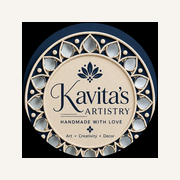
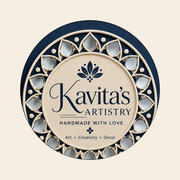
Faster navigation and separate installable shop and admin apps
- Instant loading screens for shop, product and admin pages (enables prefetch)
- Cache storefront reads; every database write clears the cache immediately
- One database round trip on start-up instead of four
- Admin is its own installable app (own manifest, scope /admin, icon)
- Service worker: full-screen install everywhere, cached build files/photos
- New app icons without the black square; iPhone full-screen meta
- /api/health speed diagnostics reported by the live check

Claude-Session: https://claude.ai/code/session_01DYmpLTJUf9V3yLbi4Rqe1d

diff --git a/public/sw.js b/public/sw.js
@@ -1,0 +1,66 @@
+/*
+ * Service worker for the shop and admin apps.
+ * - Makes both installable as full-screen apps (a fetch handler is required by some browsers).
+ * - Caches build files and photos so repeat visits and page switches load instantly.
+ * Pages and /api are always fetched fresh (orders, stock and admin data must never be stale).
+ */
+const VERSION = "v1";
+const STATIC = `static-${VERSION}`;
+const MEDIA = `media-${VERSION}`;
+
+self.addEventListener("install", () => self.skipWaiting());
+
+self.addEventListener("activate", (event) => {
+  event.waitUntil(
+    (async () => {
+      const keep = new Set([STATIC, MEDIA]);
+      for (const key of await caches.keys()) if (!keep.has(key)) await caches.delete(key);
+      await self.clients.claim();
+    })(),
+  );
+});
+
+const OFFLINE_HTML = `<!doctype html><meta charset="utf-8"><meta name="viewport" content="width=device-width,initial-scale=1">
+<title>Offline</title><body style="margin:0;display:grid;place-items:center;min-height:100vh;background:#f6ede3;color:#3b2a20;font:16px system-ui;text-align:center;padding:24px">
+<div><p style="font-size:22px;margin:0 0 8px">You're offline</p><p style="margin:0 0 20px;color:#6b5546">Check your internet connection and try again.</p>
+<button onclick="location.reload()" style="border:0;border-radius:999px;padding:12px 24px;background:#3b2a20;color:#fff;font:inherit">Try again</button></div>`;
+
+async function cacheFirst(request) {
+  const cache = await caches.open(STATIC);
+  const hit = await cache.match(request);
+  if (hit) return hit;
+  const res = await fetch(request);
+  if (res.ok) cache.put(request, res.clone());
+  return res;
+}
+
+async function staleWhileRevalidate(request) {
+  const cache = await caches.open(MEDIA);
+  const hit = await cache.match(request);
+  const fresh = fetch(request)
+    .then((res) => {
+      if (res.ok) cache.put(request, res.clone());
+      return res;
+    })
+    .catch(() => hit);
+  return hit || fresh;
+}
+
+self.addEventListener("fetch", (event) => {
+  const { request } = event;
+  if (request.method !== "GET") return;
+  const url = new URL(request.url);
+  if (url.origin !== self.location.origin) return;
+
+  if (request.mode === "navigate") {
+    event.respondWith(fetch(request).catch(() => new Response(OFFLINE_HTML, { headers: { "Content-Type": "text/html; charset=utf-8" } })));
+    return;
+  }
+  if (url.pathname.startsWith("/_next/static/")) {
+    event.respondWith(cacheFirst(request));
+    return;
+  }
+  if (/^\/(home|stock|demo|brand)\//.test(url.pathname) || /^\/api\/img\//.test(url.pathname) || /\.(png|webp|jpg|jpeg|svg|woff2)$/.test(url.pathname)) {
+    event.respondWith(staleWhileRevalidate(request));
+  }
+});

diff --git a/src/lib/db.ts b/src/lib/db.ts
@@ -1,4 +1,5 @@
 import { createClient, type Client, type InValue } from "@libsql/client";
+import { revalidateTag } from "next/cache";
 import { SEED_CATEGORIES, SEED_CATEGORIES_V2, seedCategoryStatements, seedDemoProducts, seedDemoProductsV2 } from "./seed";
 
 /**
@@ -160,8 +161,18 @@ const SCHEMA = [
   )`,
 ];
 
+/** Bump when a new one-time migration is added below; the fast path checks this single flag. */
+const DB_VERSION = "3";
+
 async function init() {
   const c = getClient();
+  // Fast path (every warm database): one round trip instead of schema + three flag checks.
+  try {
+    const v = await c.execute({ sql: "SELECT value FROM Setting WHERE key = 'dbVersion'", args: [] });
+    if (v.rows[0]?.value === JSON.stringify(DB_VERSION)) return;
+  } catch {
+    // No Setting table yet — fresh database.
+  }
   await c.batch(SCHEMA.map((sql) => ({ sql, args: [] })), "write");
   const seeded = await c.execute({ sql: "SELECT value FROM Setting WHERE key = 'seeded'", args: [] });
   if (seeded.rows.length === 0) {
@@ -199,6 +210,7 @@ async function init() {
       "write",
     );
   }
+  await c.execute({ sql: `INSERT OR REPLACE INTO Setting (key, value) VALUES ('dbVersion', ?)`, args: [JSON.stringify(DB_VERSION)] });
 }
 
 export async function ensureDb() {
@@ -224,14 +236,31 @@ export async function queryOne<T = Row>(sql: string, args: InValue[] = []): Prom
   return rows[0] ?? null;
 }
 
+// View / WhatsApp-click counters change on every visit and are not shown in the shop.
+const COUNTER_WRITE = /^UPDATE Product SET (views|whatsappClicks) = /;
+
+/** Any data change clears the cached storefront reads (lib/cached.ts) so it shows immediately. */
+function storeChanged(sqls: string[]) {
+  if (sqls.every((s) => COUNTER_WRITE.test(s))) return;
+  try {
+    revalidateTag("store", { expire: 0 });
+  } catch {
+    // Outside a route handler / server action (e.g. during render) there is nothing to clear.
+  }
+}
+
 export async function run(sql: string, args: InValue[] = []) {
   await ensureDb();
-  return getClient().execute({ sql, args });
+  const res = await getClient().execute({ sql, args });
+  storeChanged([sql]);
+  return res;
 }
 
 export async function batch(stmts: { sql: string; args: InValue[] }[]) {
   await ensureDb();
-  return getClient().batch(stmts, "write");
+  const res = await getClient().batch(stmts, "write");
+  storeChanged(stmts.map((s) => s.sql));
+  return res;
 }
 
 export function newId(prefix = "") {

diff --git a/src/app/layout.tsx b/src/app/layout.tsx
@@ -1,5 +1,6 @@
 import type { Metadata, Viewport } from "next";
 import { Dancing_Script, Fraunces, Manrope, Tiro_Devanagari_Hindi } from "next/font/google";
+import { ServiceWorker } from "@/components/ServiceWorker";
 import "./globals.css";
 
 // Display serif: variable with optical sizing (no weight array → full variable range)
@@ -22,6 +23,8 @@ export const metadata: Metadata = {
   openGraph: { type: "website", siteName: "Kavita’s Artistry", images: ["/brand/brand-board.jpg"] },
   manifest: "/manifest.webmanifest",
   icons: { apple: "/apple-touch-icon.png" },
+  // iPhone: open the home-screen app full screen, without Safari's address bar
+  appleWebApp: { capable: true, title: "Kavita's", statusBarStyle: "default" },
 };
 
 export const viewport: Viewport = { themeColor: "#f6ede3", width: "device-width", initialScale: 1, viewportFit: "cover" };
@@ -29,7 +32,10 @@ export const viewport: Viewport = { themeColor: "#f6ede3", width: "device-width"
 export default function RootLayout({ children }: { children: React.ReactNode }) {
   return (
     <html lang="en-IN" className={`${fraunces.variable} ${manrope.variable} ${tiro.variable} ${dancing.variable}`}>
-      <body className="min-h-screen">{children}</body>
+      <body className="min-h-screen">
+        {children}
+        <ServiceWorker />
+      </body>
     </html>
   );
 }

diff --git a/src/app/manifest.ts b/src/app/manifest.ts
@@ -1,17 +1,27 @@
 import type { MetadataRoute } from "next";
 
+/**
+ * The shop app. The admin is a separate installable app with its own manifest
+ * (public/admin.webmanifest, linked from app/admin/layout.tsx).
+ */
 export default function manifest(): MetadataRoute.Manifest {
   return {
+    id: "/",
     name: "Kavita's Artistry",
     short_name: "Kavita's",
     description: "Handmade art & craft — order on WhatsApp",
     start_url: "/",
+    scope: "/",
     display: "standalone",
-    background_color: "#f7f4ef",
-    theme_color: "#f7f4ef",
+    display_override: ["standalone"],
+    orientation: "portrait",
+    background_color: "#f6ede3",
+    theme_color: "#f6ede3",
+    categories: ["shopping", "lifestyle"],
     icons: [
-      { src: "/icon-192.png", sizes: "192x192", type: "image/png" },
-      { src: "/icon-512.png", sizes: "512x512", type: "image/png" },
+      { src: "/icon-192.png", sizes: "192x192", type: "image/png", purpose: "any" },
+      { src: "/icon-512.png", sizes: "512x512", type: "image/png", purpose: "any" },
+      { src: "/icon-512.png", sizes: "512x512", type: "image/png", purpose: "maskable" },
     ],
   };
 }

diff --git a/src/lib/cached.ts b/src/lib/cached.ts
@@ -1,0 +1,18 @@
+import { unstable_cache } from "next/cache";
+import * as repo from "./repo";
+import { getSettings as readSettings } from "./settings";
+
+/**
+ * Cached storefront reads. The shop pages read settings, categories, products and reviews on every
+ * visit; caching them means most pages need no database round trip at all.
+ * Every database write clears the cache straight away (see `run`/`batch` in db.ts), so admin edits
+ * and new orders still show on the very next page load. The hourly expiry is only a safety net.
+ */
+export const STORE_TAG = "store";
+const opts = { tags: [STORE_TAG], revalidate: 3600 };
+
+export const getSettings = unstable_cache(readSettings, ["settings"], opts);
+export const categoryTree = unstable_cache(repo.categoryTree, ["categoryTree"], opts);
+export const listProducts = unstable_cache(repo.listProducts, ["listProducts"], opts);
+export const listReviews = unstable_cache(repo.listReviews, ["listReviews"], opts);
+export const getProductBySlug = unstable_cache(repo.getProductBySlug, ["getProductBySlug"], opts);

diff --git a/src/app/api/health/route.ts b/src/app/api/health/route.ts
@@ -1,0 +1,26 @@
+import { NextResponse } from "next/server";
+import { ensureDb, query } from "@/lib/db";
+
+export const dynamic = "force-dynamic";
+
+/**
+ * Speed diagnostics for the live check: where the server runs, which region the database is in
+ * (only the region part of its host name) and how long database round trips take.
+ */
+export async function GET() {
+  const t0 = performance.now();
+  await ensureDb();
+  const init = performance.now() - t0;
+  const trips: number[] = [];
+  for (let i = 0; i < 3; i++) {
+    const t = performance.now();
+    await query("SELECT 1");
+    trips.push(Math.round(performance.now() - t));
+  }
+  const url = process.env.DATABASE_URL || process.env.TURSO_DATABASE_URL || "";
+  const dbRegion = url.match(/\.((?:aws|gcp|fly)-[a-z0-9-]+)\.turso\.io/)?.[1] ?? (url ? "unknown" : "none");
+  return NextResponse.json(
+    { serverRegion: process.env.VERCEL_REGION ?? "local", dbRegion, initMs: Math.round(init), roundTripMs: trips },
+    { headers: { "Cache-Control": "no-store" } },
+  );
+}

diff --git a/src/app/(store)/loading.tsx b/src/app/(store)/loading.tsx
@@ -1,0 +1,23 @@
+/**
+ * Shown the instant a shop link is tapped, while the next page renders on the server.
+ * Shared by every shop page that has no loading screen of its own.
+ */
+export default function StoreLoading() {
+  return (
+    <div className="container-x pt-6 pb-16 lg:pt-10" aria-busy="true" aria-label="Loading">
+      <div className="skeleton h-[13px] w-28" />
+      <div className="skeleton mt-4 h-9 w-[min(100%,24rem)] lg:h-11" />
+      <div className="skeleton mt-4 h-4 w-[min(100%,32rem)]" />
+      <div className="skeleton mt-2 h-4 w-[min(70%,20rem)]" />
+      <div className="mt-10 grid grid-cols-2 gap-x-3 gap-y-6 md:grid-cols-3 md:gap-x-4 xl:grid-cols-4 xl:gap-x-5">
+        {Array.from({ length: 8 }).map((_, i) => (
+          <div key={i}>
+            <div className="skeleton aspect-square" />
+            <div className="skeleton mt-3 h-4 w-[70%]" />
+            <div className="skeleton mt-2 h-3.5 w-[30%]" />
+          </div>
+        ))}
+      </div>
+    </div>
+  );
+}

diff --git a/src/app/(store)/product/[slug]/loading.tsx b/src/app/(store)/product/[slug]/loading.tsx
@@ -1,0 +1,20 @@
+/** Product page skeleton: gallery left, details right (stacked on phones). */
+export default function ProductLoading() {
+  return (
+    <div className="container-x pt-5 pb-16 lg:pt-8" aria-busy="true" aria-label="Loading piece">
+      <div className="skeleton h-3.5 w-48" />
+      <div className="mt-6 grid gap-8 lg:grid-cols-12 lg:gap-10">
+        <div className="skeleton aspect-square lg:col-span-7" />
+        <div className="lg:col-span-5">
+          <div className="skeleton h-3.5 w-32" />
+          <div className="skeleton mt-4 h-10 w-[85%]" />
+          <div className="skeleton mt-4 h-6 w-28" />
+          <div className="skeleton mt-6 h-4 w-full" />
+          <div className="skeleton mt-2 h-4 w-[80%]" />
+          <div className="skeleton mt-8 h-12 w-full" style={{ borderRadius: 999 }} />
+          <div className="skeleton mt-3 h-12 w-full" style={{ borderRadius: 999 }} />
+        </div>
+      </div>
+    </div>
+  );
+}

diff --git a/src/app/(store)/page.tsx b/src/app/(store)/page.tsx
@@ -3,8 +3,8 @@ import { ProductCard } from "@/components/store/ProductCard";
 import { AboutStrip, CategoryTiles, HeroBanner, type Tile } from "@/components/store/home/Atelier";
 import { CommissionAndGifts, FromYourHomes, HowOrdering, InstagramLine, SECTION_TOP, instagramLink } from "@/components/store/home/Sections";
 import { responsiveImg } from "@/components/store/home/img";
-import { categoryTree, listProducts, listReviews } from "@/lib/repo";
-import { getSettings } from "@/lib/settings";
+import { categoryTree, listProducts, listReviews } from "@/lib/cached";
+import { getSettings } from "@/lib/cached";
 import type { Category, Product } from "@/lib/types";
 
 const BRAND_BOARD = "/brand/brand-board.jpg";

diff --git a/src/app/admin/layout.tsx b/src/app/admin/layout.tsx
@@ -1,0 +1,18 @@
+import type { Metadata, Viewport } from "next";
+
+/**
+ * Everything under /admin is its own installable app ("Studio Admin"): its own manifest
+ * (scope /admin, start /admin), name and icon, so installing from an admin page never
+ * installs the shop instead.
+ */
+export const metadata: Metadata = {
+  manifest: "/admin.webmanifest",
+  icons: { icon: "/admin-icon-192.png", apple: "/admin-apple-touch-icon.png" },
+  appleWebApp: { capable: true, title: "Studio Admin", statusBarStyle: "default" },
+};
+
+export const viewport: Viewport = { themeColor: "#f4f2ee" };
+
+export default function AdminRootLayout({ children }: { children: React.ReactNode }) {
+  return children;
+}

diff --git a/src/app/(store)/product/[slug]/page.tsx b/src/app/(store)/product/[slug]/page.tsx
@@ -2,8 +2,8 @@ import type { Metadata } from "next";
 import Link from "next/link";
 import { notFound } from "next/navigation";
 import { Banknote, Package, Plus, RefreshCcw, Truck } from "lucide-react";
-import { getProductBySlug, listProducts, listReviews } from "@/lib/repo";
-import { getSettings } from "@/lib/settings";
+import { getProductBySlug, listProducts, listReviews } from "@/lib/cached";
+import { getSettings } from "@/lib/cached";
 import { formatINR, imgUrl } from "@/lib/format";
 import { EmptyArt, Eyebrow, Price, SectionHeader } from "@/components/brand";
 import { Gallery } from "@/components/store/Gallery";

diff --git a/src/app/(store)/shop/page.tsx b/src/app/(store)/shop/page.tsx
@@ -2,8 +2,9 @@ import type { Metadata } from "next";
 import Link from "next/link";
 import { Fragment, Suspense } from "react";
 import { X } from "lucide-react";
-import { categoryTree, listProducts, type ProductFilter } from "@/lib/repo";
-import { getSettings } from "@/lib/settings";
+import { type ProductFilter } from "@/lib/repo";
+import { categoryTree, listProducts } from "@/lib/cached";
+import { getSettings } from "@/lib/cached";
 import { EmptyArt, Eyebrow } from "@/components/brand";
 import { ProductCard } from "@/components/store/ProductCard";
 import { SortSelect } from "@/components/store/SortSelect";
